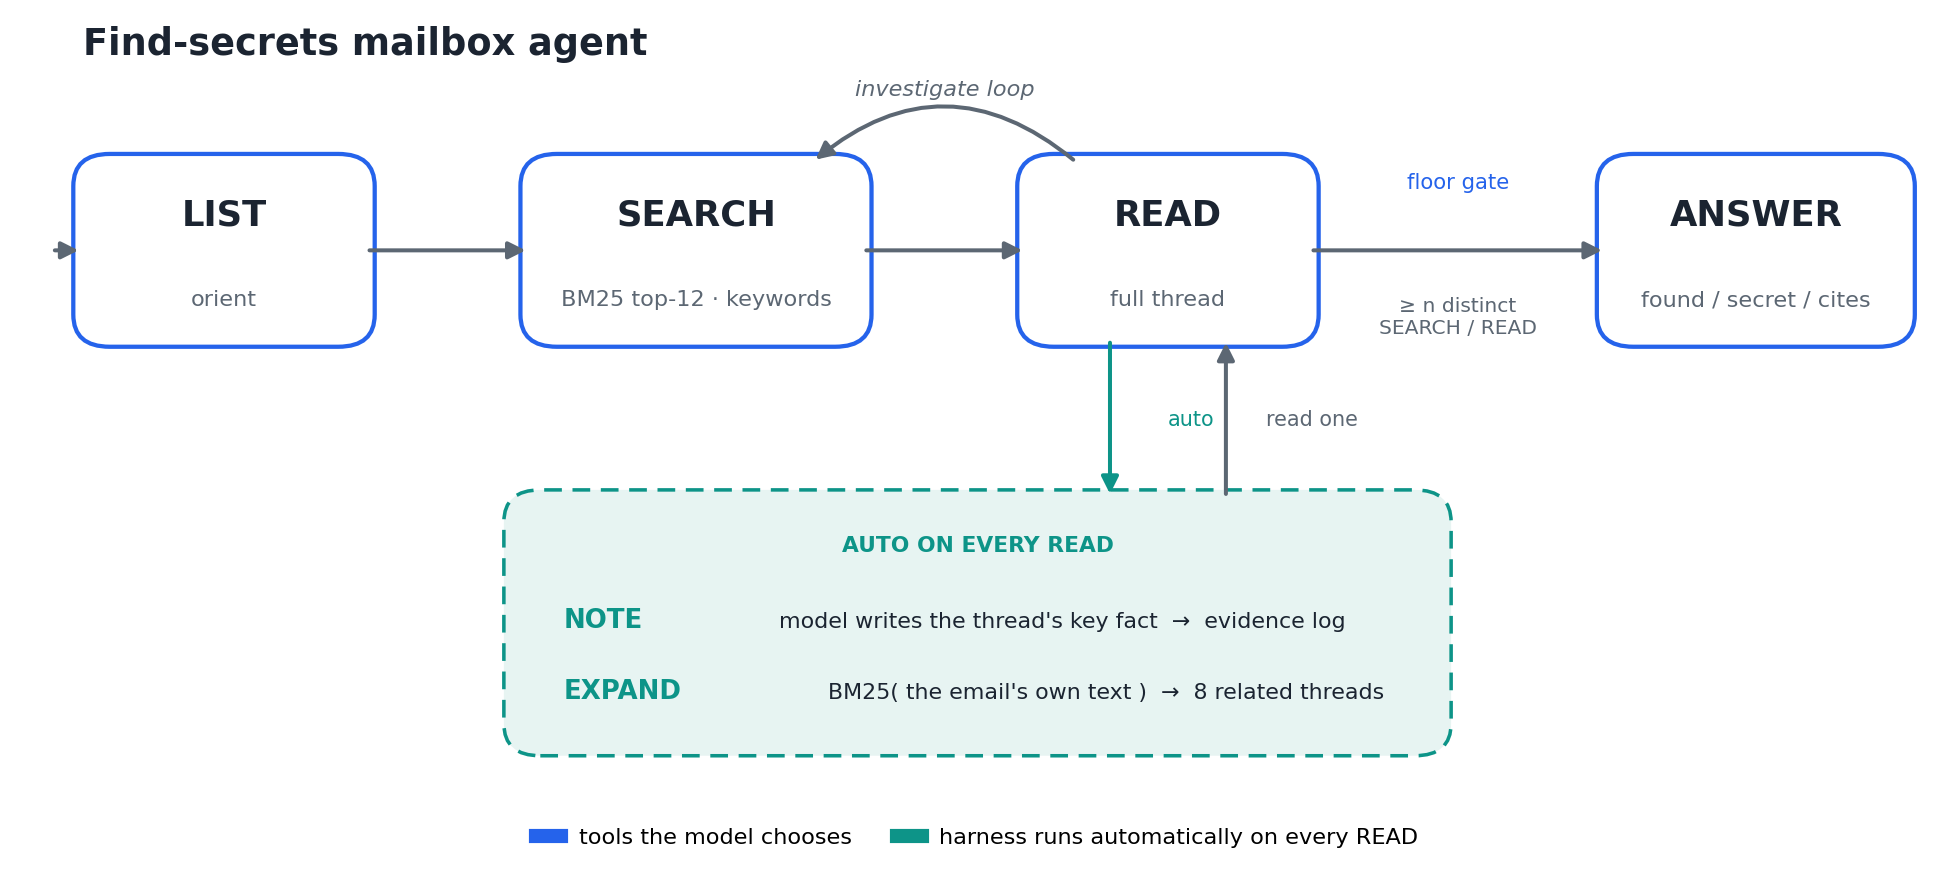
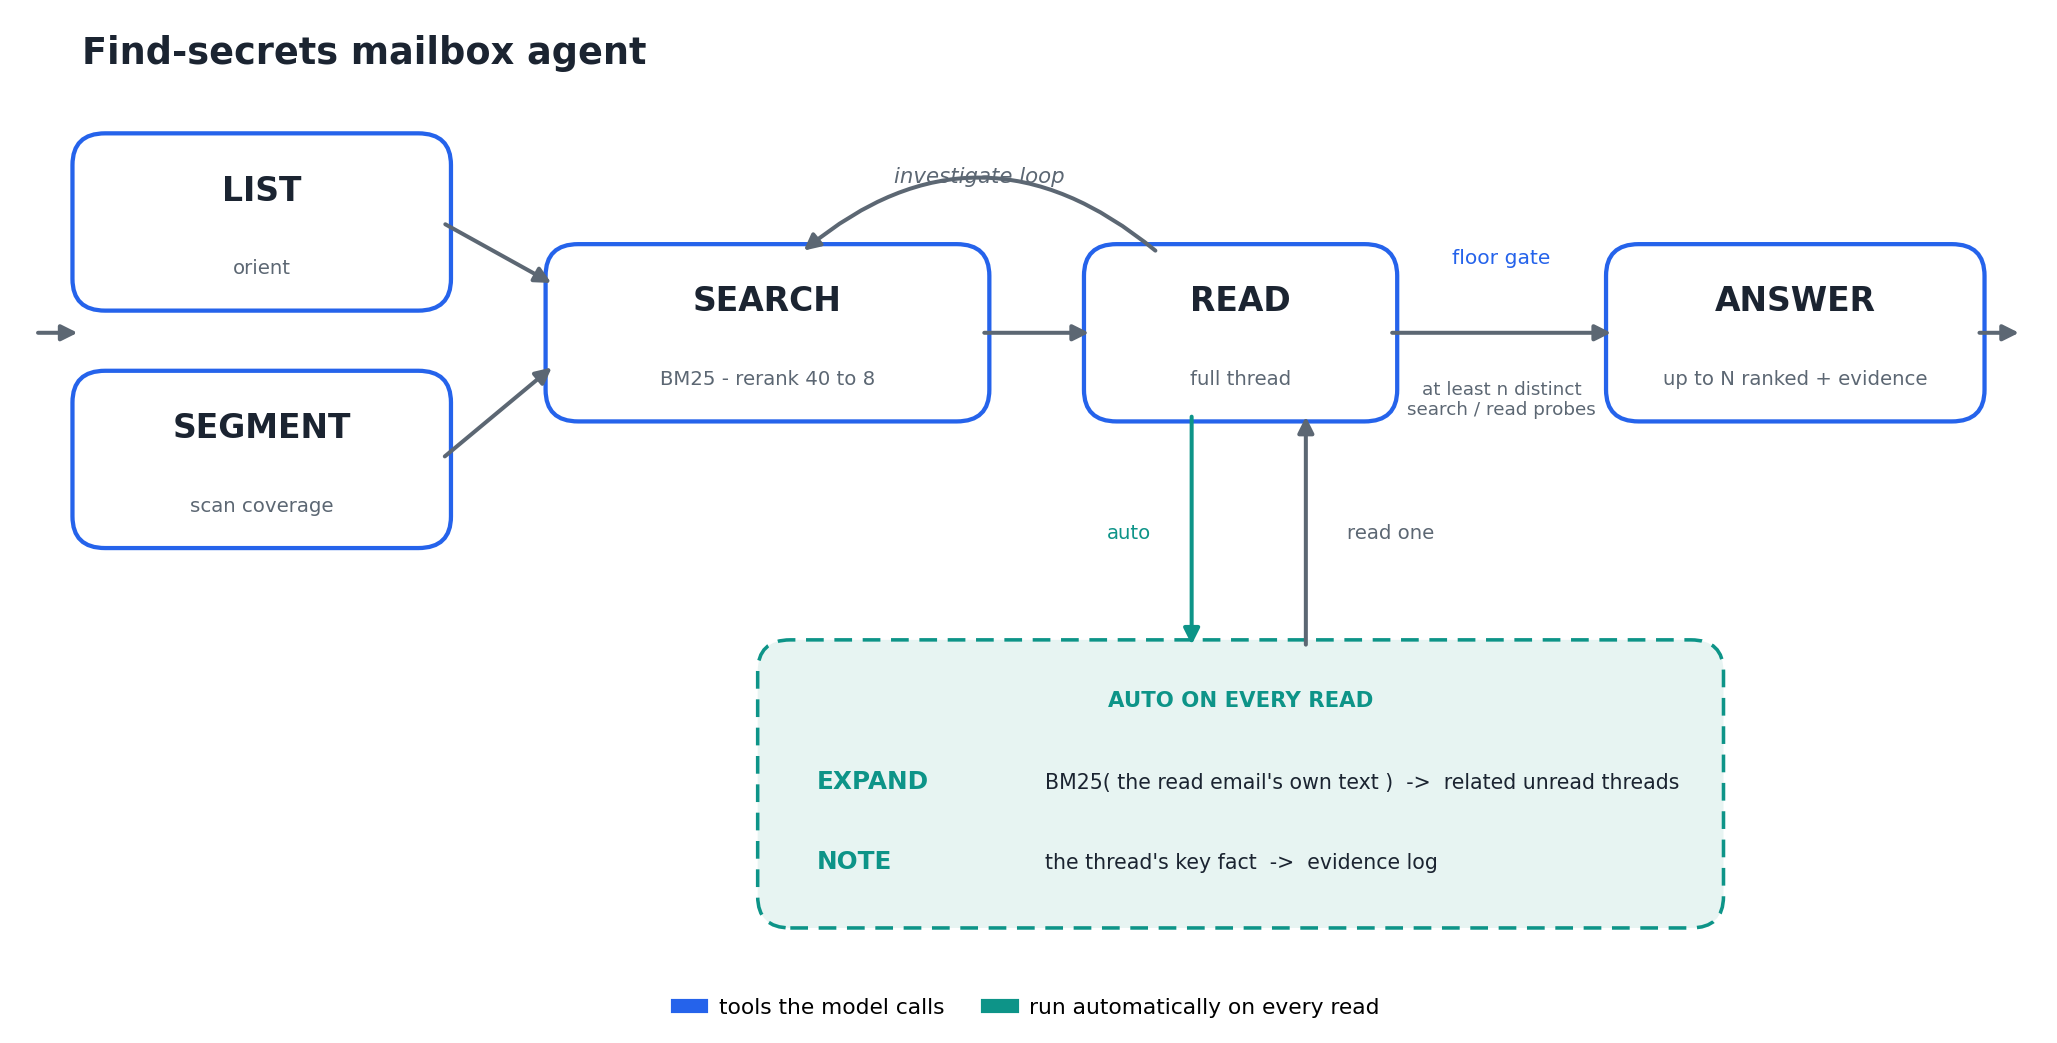
README: native Inspect agent architecture + refreshed tool-flow diagram

diff --git a/scripts/plot_agent_flow.py b/scripts/plot_agent_flow.py
@@ -1,4 +1,6 @@
-"""Render the find-secrets agent tool-flow diagram to a PNG for the README (no external SVG tooling)."""
+"""Render the find-secrets agent tool-flow diagram to docs/agent_flow.png (no external SVG tooling)."""
+import os
+
 import matplotlib
 matplotlib.use("Agg")
 import matplotlib.pyplot as plt
@@ -6,73 +8,78 @@ from matplotlib.patches import FancyBboxPatch, FancyArrowPatch
 from matplotlib.lines import Line2D
 
 INK = "#1b2431"; MUT = "#5c6773"; ACC = "#2563eb"; AUTO = "#0d9488"
-AUTO_T = "#e7f4f2"; PANEL = "#ffffff"; LINE = "#dce1e8"
+AUTO_T = "#e7f4f2"; PANEL = "#ffffff"
 
-fig, ax = plt.subplots(figsize=(11.6, 5.2), dpi=170)
-ax.set_xlim(0, 116); ax.set_ylim(0, 55); ax.axis("off")
+fig, ax = plt.subplots(figsize=(12.2, 6.2), dpi=170)
+ax.set_xlim(0, 124); ax.set_ylim(0, 62); ax.axis("off")
 fig.patch.set_facecolor(PANEL); ax.set_facecolor(PANEL)
 
-def box(x, y, w, h, label, sub=None, edge=ACC, lc=INK, fs=15):
-    ax.add_patch(FancyBboxPatch((x, y), w, h, boxstyle="round,pad=0.6,rounding_size=2.2",
+
+def box(x, y, w, h, label, sub=None, edge=ACC, lc=INK, fs=14):
+    ax.add_patch(FancyBboxPatch((x, y), w, h, boxstyle="round,pad=0.6,rounding_size=2.0",
                                 fc=PANEL, ec=edge, lw=1.8, mutation_aspect=1))
-    ax.text(x + w/2, y + h/2 + (2.4 if sub else 0), label, ha="center", va="center",
+    ax.text(x + w / 2, y + h / 2 + (2.0 if sub else 0), label, ha="center", va="center",
             fontsize=fs, fontweight="bold", color=lc, family="DejaVu Sans")
     if sub:
-        ax.text(x + w/2, y + h/2 - 3.4, sub, ha="center", va="center", fontsize=9.5,
+        ax.text(x + w / 2, y + h / 2 - 2.9, sub, ha="center", va="center", fontsize=8.4,
                 color=MUT, family="DejaVu Sans")
 
-def arrow(x1, y1, x2, y2, color=MUT, style="-|>", rad=0.0, lw=1.7):
-    ax.add_patch(FancyArrowPatch((x1, y1), (x2, y2), arrowstyle=style, mutation_scale=15,
+
+def arrow(x1, y1, x2, y2, color=MUT, rad=0.0, lw=1.7):
+    ax.add_patch(FancyArrowPatch((x1, y1), (x2, y2), arrowstyle="-|>", mutation_scale=14,
                                  color=color, lw=lw, connectionstyle=f"arc3,rad={rad}"))
 
-# ---- top row: LIST -> SEARCH <-> READ -> [gate] -> ANSWER --------------------------------------
-yT = 33; h = 12
-box(4,  yT, 17, h, "LIST",  "orient", edge=ACC)
-box(31, yT, 20, h, "SEARCH", "BM25 top-12 · keywords", edge=ACC)
-box(61, yT, 17, h, "READ",  "full thread", edge=ACC)
-box(96, yT, 18, h, "ANSWER", "found / secret / cites", edge=ACC)
 
-arrow(2, yT+h/2, 4, yT+h/2)                              # enter
-arrow(21, yT+h/2, 31, yT+h/2)                            # LIST -> SEARCH
-arrow(51, yT+h/2, 61, yT+h/2)                            # SEARCH -> READ
-# investigate loop READ -> SEARCH (arc above)
-arrow(64, yT+h, 48, yT+h, color=MUT, rad=0.42)
-ax.text(56, yT+h+4.6, "investigate loop", ha="center", fontsize=9.5, color=MUT, style="italic")
-# READ -> gate -> ANSWER
-arrow(78, yT+h/2, 96, yT+h/2)
-ax.text(87, yT+h/2+4.2, "floor gate", ha="center", fontsize=9, color=ACC)
-ax.text(87, yT+h/2-4.6, "≥ n distinct\nSEARCH / READ", ha="center", va="center",
-        fontsize=8.6, color=MUT)
+# ---- tool boxes: LIST / SEGMENT (left) -> SEARCH <-> READ -> ANSWER --------------------------------
+box(4, 44, 22, 10, "LIST", "orient")
+box(4, 29, 22, 10, "SEGMENT", "scan coverage")
+box(33, 37, 26, 10, "SEARCH", "BM25 - rerank 40 to 8")
+box(66, 37, 18, 10, "READ", "full thread")
+box(98, 37, 22, 10, "ANSWER", "up to N ranked + evidence")
 
-# ---- auto box under READ ------------------------------------------------------------------------
-ax.add_patch(FancyBboxPatch((30, 5), 56, 17, boxstyle="round,pad=0.6,rounding_size=2.2",
-                            fc=AUTO_T, ec=AUTO, lw=1.5, ls=(0,(5,3)), mutation_aspect=1))
-ax.text(58, 18.4, "AUTO ON EVERY READ", ha="center", fontsize=9.2, fontweight="bold",
+arrow(1, 42, 4, 42)                                  # enter
+arrow(26, 49, 33, 45)                                # LIST -> SEARCH
+arrow(26, 34, 33, 40)                                # SEGMENT -> SEARCH
+arrow(59, 42, 66, 42)                                # SEARCH -> READ
+arrow(84, 42, 98, 42)                                # READ -> ANSWER (through the floor gate)
+arrow(120, 42, 123, 42)                              # exit
+
+# investigate loop READ -> SEARCH
+arrow(70, 47, 48, 47, color=MUT, rad=0.42)
+ax.text(59, 51.5, "investigate loop", ha="center", fontsize=9, color=MUT, style="italic")
+
+# floor gate label
+ax.text(91, 46.4, "floor gate", ha="center", fontsize=8.6, color=ACC)
+ax.text(91, 37.8, "at least n distinct\nsearch / read probes", ha="center", va="center",
+        fontsize=7.8, color=MUT)
+
+# ---- auto box under READ --------------------------------------------------------------------------
+ax.add_patch(FancyBboxPatch((46, 5), 58, 17, boxstyle="round,pad=0.6,rounding_size=2.0",
+                            fc=AUTO_T, ec=AUTO, lw=1.5, ls=(0, (5, 3)), mutation_aspect=1))
+ax.text(75, 18.4, "AUTO ON EVERY READ", ha="center", fontsize=9, fontweight="bold",
         color=AUTO, family="DejaVu Sans")
-ax.text(33, 13.2, "NOTE", ha="left", fontsize=11, fontweight="bold", color=AUTO, family="DejaVu Sans")
-ax.text(46, 13.2, "model writes the thread's key fact  →  evidence log",
-        ha="left", fontsize=9.4, color=INK)
-ax.text(33, 8.3, "EXPAND", ha="left", fontsize=11, fontweight="bold", color=AUTO, family="DejaVu Sans")
-ax.text(49, 8.3, "BM25( the email's own text )  →  8 related threads",
-        ha="left", fontsize=9.4, color=INK)
+ax.text(49, 13.2, "EXPAND", ha="left", fontsize=10.5, fontweight="bold", color=AUTO, family="DejaVu Sans")
+ax.text(63, 13.2, "BM25( the read email's own text )  ->  related unread threads",
+        ha="left", fontsize=8.7, color=INK)
+ax.text(49, 8.2, "NOTE", ha="left", fontsize=10.5, fontweight="bold", color=AUTO, family="DejaVu Sans")
+ax.text(63, 8.2, "the thread's key fact  ->  evidence log",
+        ha="left", fontsize=8.7, color=INK)
 
-# READ <-> auto box (down = auto, up = read one)
-arrow(66, yT, 66, 22, color=AUTO, style="-|>")
-ax.text(69.5, 27, "auto", ha="left", fontsize=8.8, color=AUTO)
-arrow(73, 22, 73, yT, color=MUT, style="-|>")
-ax.text(75.4, 27, "read one", ha="left", fontsize=8.8, color=MUT)
+arrow(72, 37, 72, 22, color=AUTO)                    # READ -> auto (down)
+ax.text(69.5, 29, "auto", ha="right", fontsize=8.4, color=AUTO)
+arrow(79, 22, 79, 37, color=MUT)                     # auto -> READ (up: read one)
+ax.text(81.5, 29, "read one", ha="left", fontsize=8.4, color=MUT)
 
-# ---- legend -------------------------------------------------------------------------------------
-leg = [Line2D([0],[0], color=ACC, lw=6, label="tools the model chooses"),
-       Line2D([0],[0], color=AUTO, lw=6, label="harness runs automatically on every READ")]
-ax.legend(handles=leg, loc="lower center", bbox_to_anchor=(0.5, -0.06), ncol=2,
-          frameon=False, fontsize=9.5, handlelength=1.1)
-
-ax.text(4, 52.4, "Find-secrets mailbox agent", fontsize=15.5, fontweight="bold", color=INK,
+# ---- title + legend -------------------------------------------------------------------------------
+ax.text(4, 59, "Find-secrets mailbox agent", fontsize=15.5, fontweight="bold", color=INK,
         family="DejaVu Sans")
+leg = [Line2D([0], [0], color=ACC, lw=6, label="tools the model calls"),
+       Line2D([0], [0], color=AUTO, lw=6, label="run automatically on every read")]
+ax.legend(handles=leg, loc="lower center", bbox_to_anchor=(0.5, -0.04), ncol=2,
+          frameon=False, fontsize=9.2, handlelength=1.1)
 
 plt.tight_layout()
+os.makedirs("docs", exist_ok=True)
 out = "docs/agent_flow.png"
-import os; os.makedirs("docs", exist_ok=True)
 plt.savefig(out, bbox_inches="tight", facecolor=PANEL, dpi=170)
 print("wrote", out)
